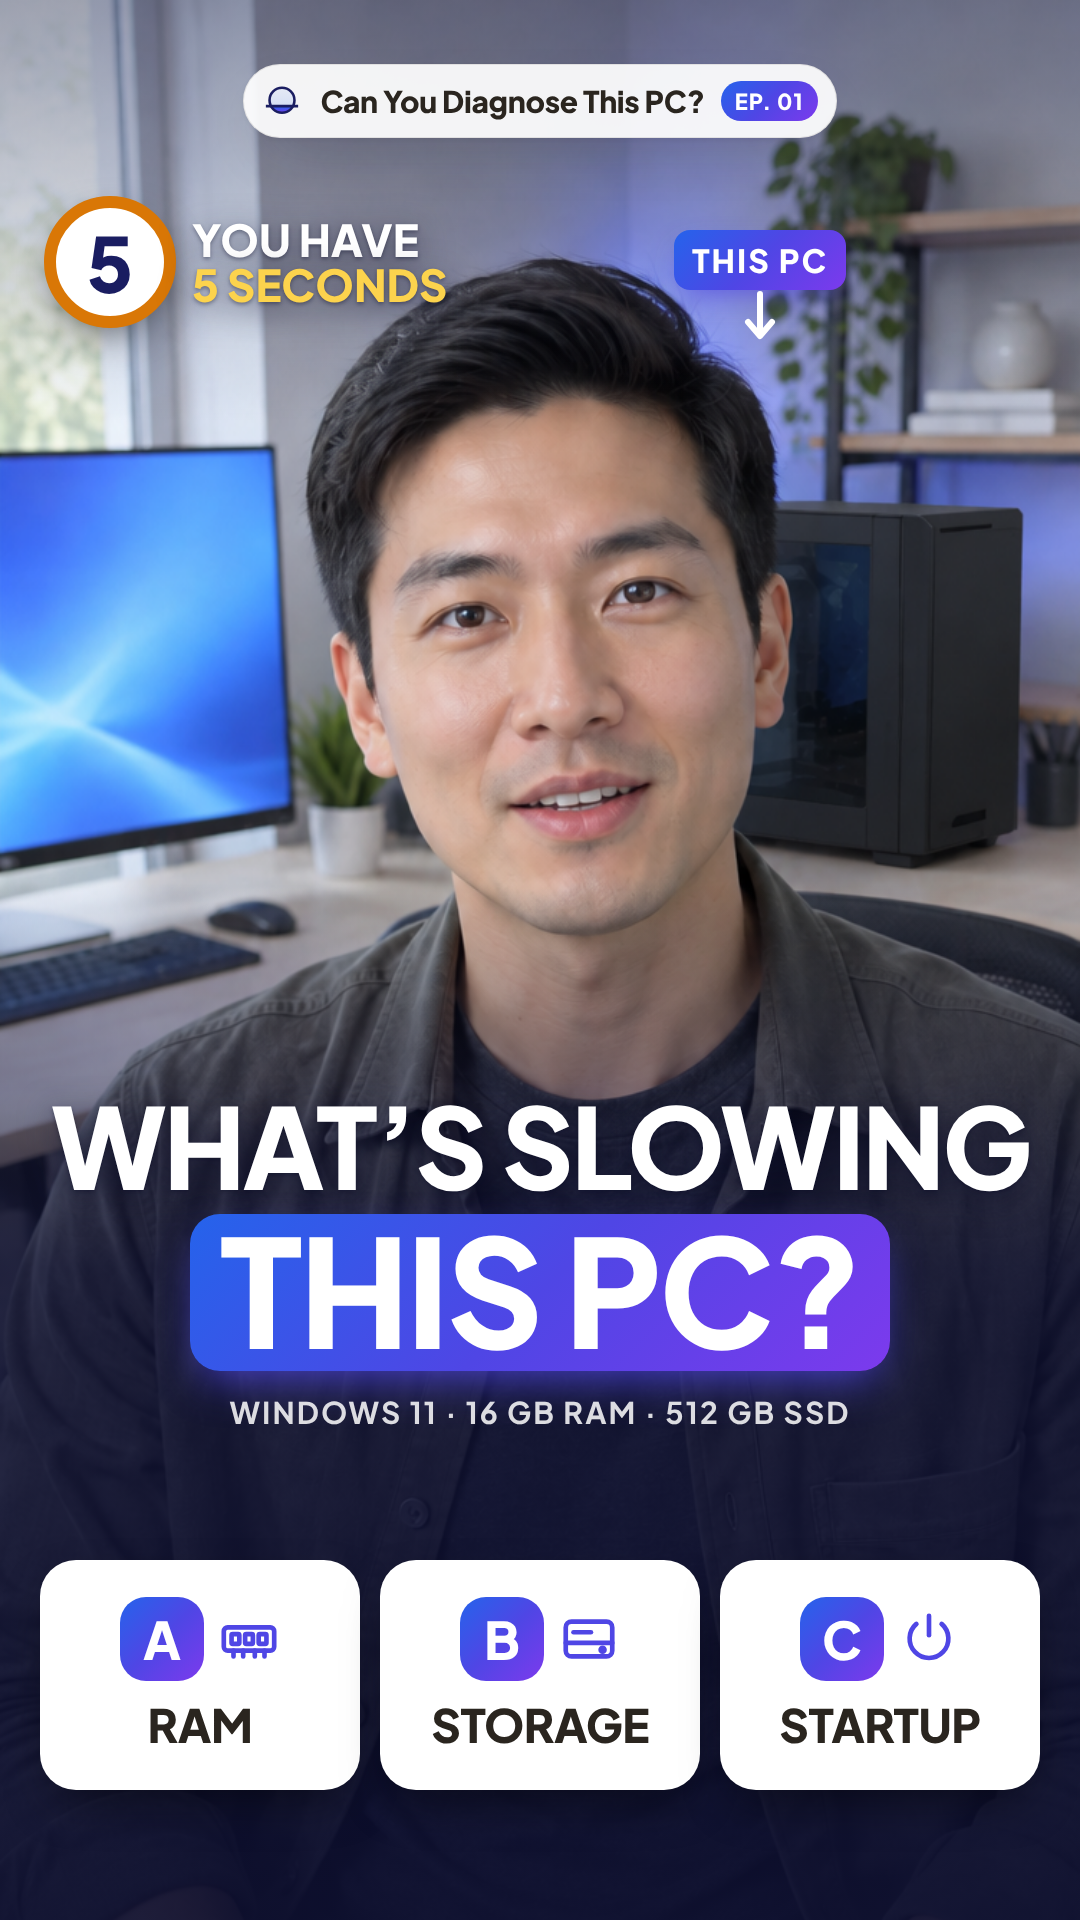
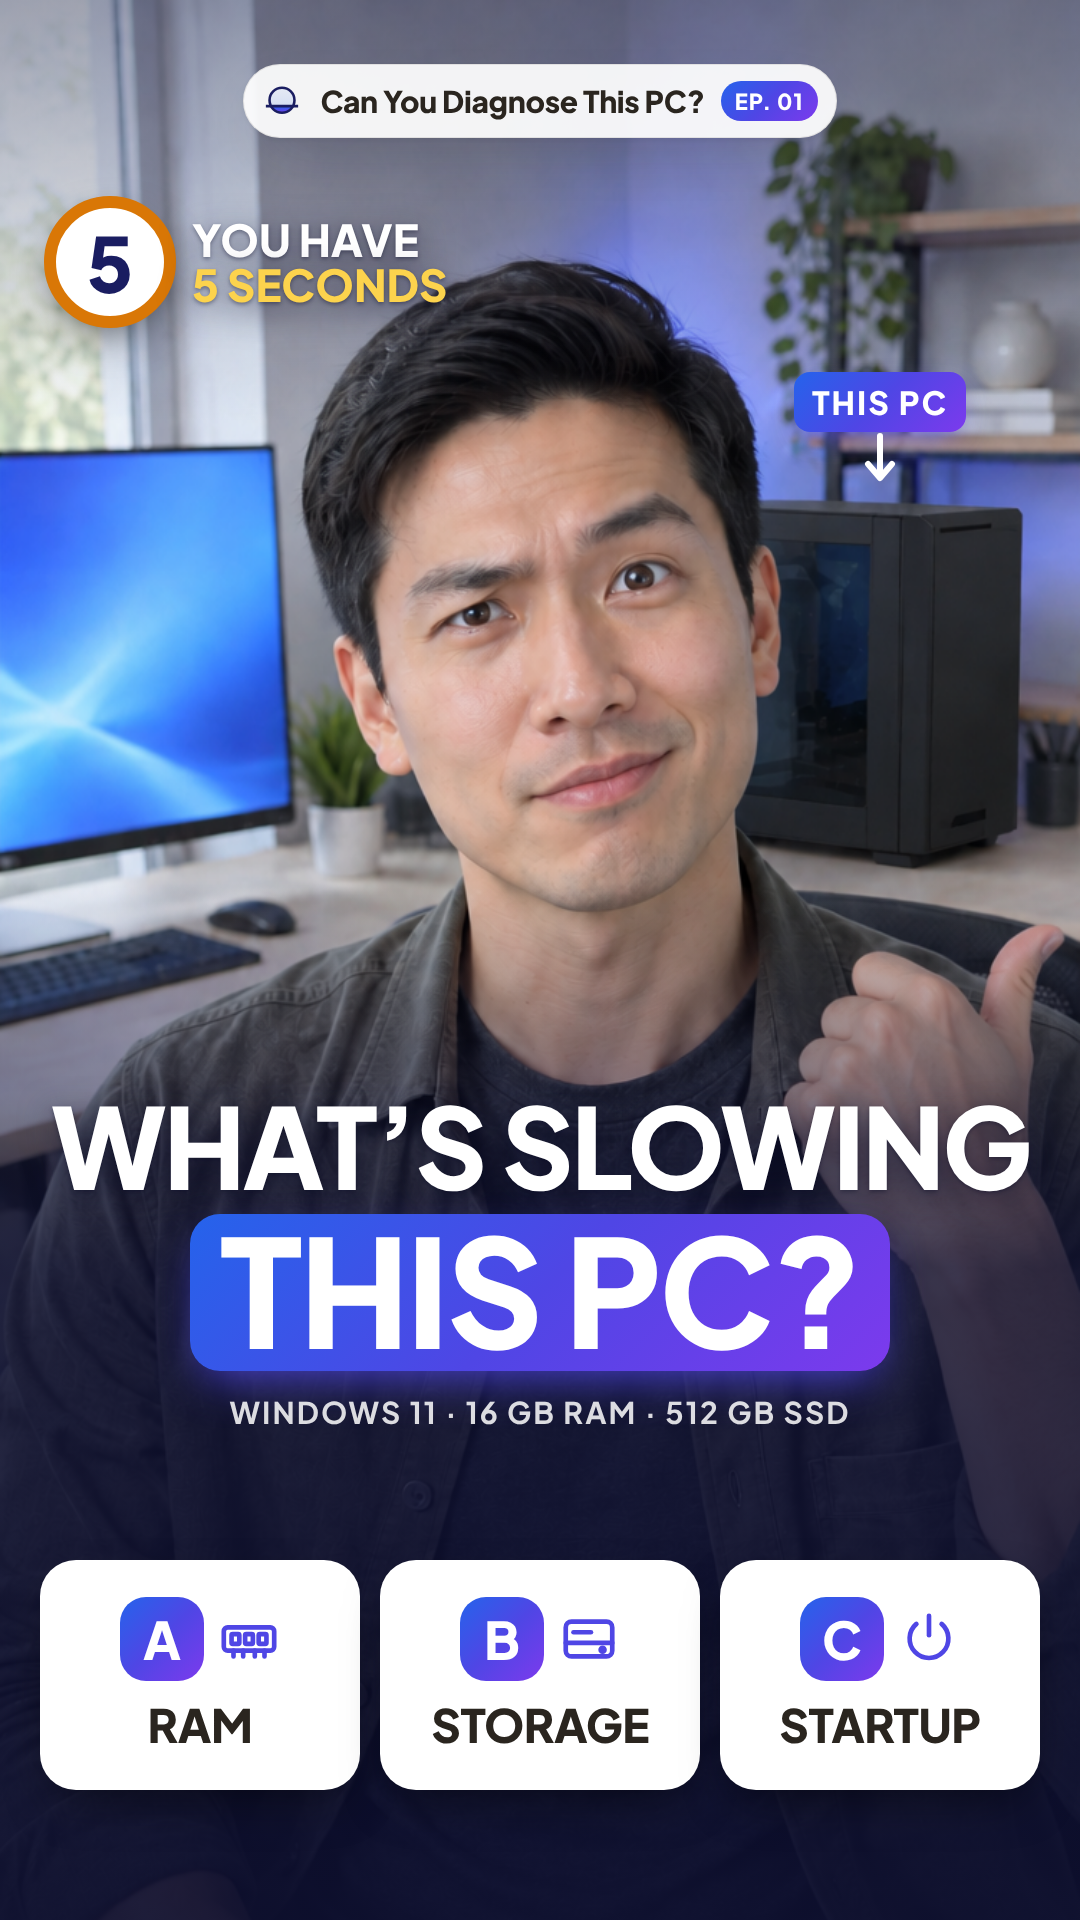
Ep 1: new expression for the 9:16 Shorts thumbnail
- Thumbnail-only host still: same host, puzzled raised-eyebrow look with a
  thumb pointing back at the black PC tower (minimal edit of his start image)
- Episode data gains an optional thumbStill; the video still uses hostStill
- "THIS PC" tag re-aimed at the tower

Claude-Session: https://claude.ai/code/session_01Mt1Tfwu9agpKzou5Hxhmnv

diff --git a/video/src/series/Thumbnail.tsx b/video/src/series/Thumbnail.tsx
@@ -21,7 +21,7 @@ export const Thumbnail: React.FC<{ep: EpisodeData}> = ({ep}) => {
   return (
     <AbsoluteFill style={{background: '#111'}}>
       <Img
-        src={staticFile(ep.hostStill)}
+        src={staticFile(ep.thumbStill ?? ep.hostStill)}
         style={{position: 'absolute', inset: 0, width: '100%', height: '100%', objectFit: 'cover', objectPosition: '50% 30%'}}
       />
       {/* readability */}
@@ -58,7 +58,7 @@ export const Thumbnail: React.FC<{ep: EpisodeData}> = ({ep}) => {
       </div>
 
       {/* point at the actual PC */}
-      <div style={{position: 'absolute', left: 650, top: 230, width: 220, display: 'flex', flexDirection: 'column', alignItems: 'center'}}>
+      <div style={{position: 'absolute', left: 770, top: 372, width: 220, display: 'flex', flexDirection: 'column', alignItems: 'center'}}>
         <div
           style={{
             fontFamily: SANS,

diff --git a/video/src/series/types.ts b/video/src/series/types.ts
@@ -51,6 +51,7 @@ export type EpisodeData = {
   hostSegmentsB: {from: number; dur: number; startFrom: number; rate: number}[];
   vo: string;
   hostStill: string;
+  thumbStill?: string; // optional thumbnail-specific host still (e.g. a punchier expression)
 
   // Timeline
   quizFrom: number;

diff --git a/video/src/episodes/ep1.data.ts b/video/src/episodes/ep1.data.ts
@@ -36,6 +36,7 @@ export const ep1: EpisodeData = {
   ],
   vo: 'vo/vo_full.wav',
   hostStill: 'host/host-still.png',
+  thumbStill: 'host/thumb-still.png', // same host, puzzled raised-eyebrow look, thumb at the PC
 
   quizFrom: 112,
   caseFrom: 116,
